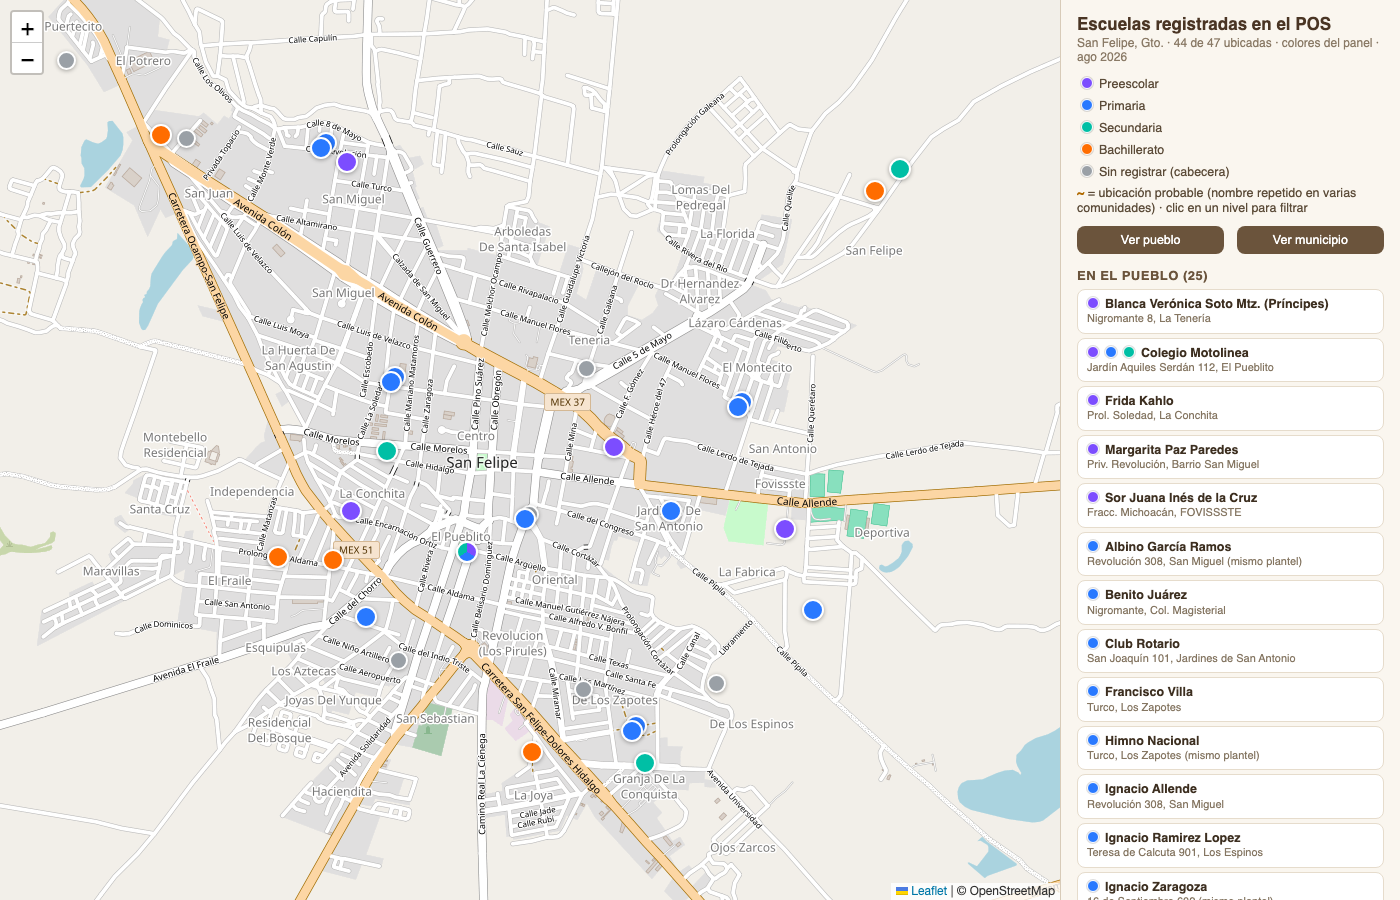
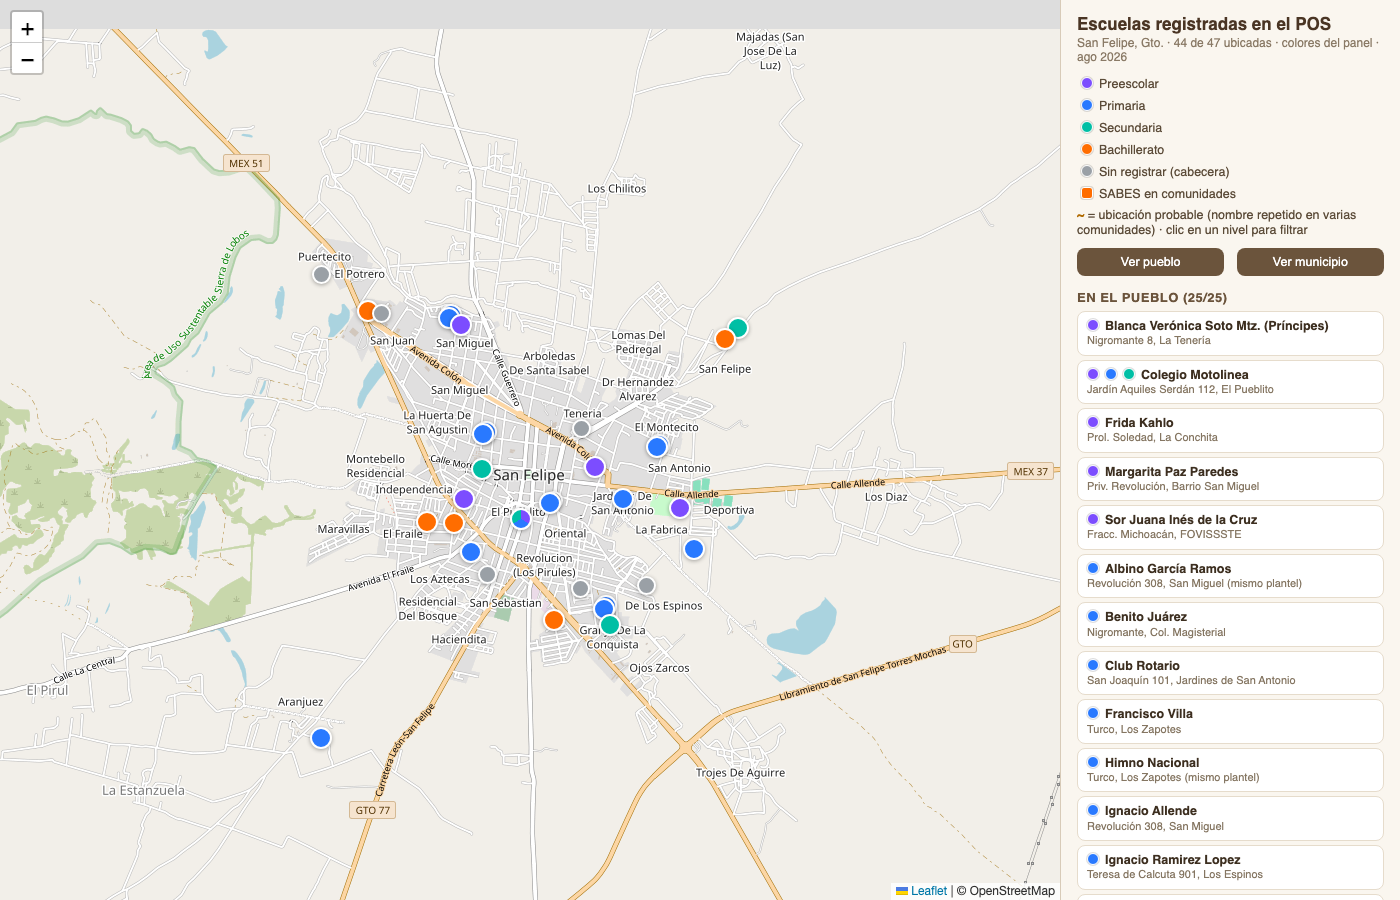
feat(mapas): planteles SABES de comunidades como grupo con filtro propio
11 SABES rurales (fichas CCT 11ETH*) como cuadritos naranjas con toggle
independiente en la leyenda, sección propia en la lista y contador en
vivo. Ver municipio los incluye en el encuadre.

diff --git a/mapas_escuelas/mapa_escuelas_san_felipe.html b/mapas_escuelas/mapa_escuelas_san_felipe.html
@@ -42,6 +42,7 @@
       <div class="fil" data-f="Sec"><span class="dot" style="background:#00bfa5"></span>Secundaria</div>
       <div class="fil" data-f="Bach"><span class="dot" style="background:#ff6d00"></span>Bachillerato</div>
       <div class="fil" data-f="Gris"><span class="dot" style="background:#9aa0a6"></span>Sin registrar (cabecera)</div>
+      <div class="fil" data-f="Sabes"><span class="dot" style="background:#ff6d00; border-radius:3px"></span>SABES en comunidades</div>
       <div style="margin-top:4px"><span class="prob">~</span> = ubicación probable (nombre repetido en varias comunidades) · clic en un nivel para filtrar</div>
     </div>
     <button class="btn" id="btnPueblo">Ver pueblo</button>
@@ -50,6 +51,8 @@
     <div id="listaPueblo"></div>
     <h2>En comunidades (<span id="nC"></span>)</h2>
     <div id="listaCom"></div>
+    <h2>SABES en comunidades (<span id="nS"></span>)</h2>
+    <div id="listaSabes"></div>
     <h2>En cabecera, sin registrar (<span id="nG"></span>)</h2>
     <div id="listaGris"></div>
     <div class="note">
@@ -119,6 +122,20 @@ const comunidades = [
   {n:"Álvaro Obregón", nv:["Pre","Pri"], a:"San Pedro de Almoloyán (primaria por confirmar)", lat:21.69089, lon:-101.23817, p:true},
   {n:"Práxedis Guerrero (primaria)", nv:["Pri"], a:"Salto del Ahogado", lat:21.39249, lon:-101.45841},
 ];
+// Planteles SABES en comunidades (mismo subsistema que tu cliente SABES)
+const sabes = [
+  {n:"SABES Jaral de Berrio", nv:["Bach"], a:"Alfonso Moreno Morán 203, Jaral de Berrios", lat:21.682824, lon:-101.01152},
+  {n:"SABES San Bartolo de Berrios", nv:["Bach"], a:"Lázaro Cárdenas, San Bartolo de Berrios", lat:21.61417, lon:-101.06361},
+  {n:"SABES Santa Rosa", nv:["Bach"], a:"Av. Colón, Santa Rosa", lat:21.55394, lon:-101.09311},
+  {n:"SABES San Pedro de Almoloyán", nv:["Bach"], a:"Calle Santa Fe, San Pedro de Almoloyán", lat:21.69889, lon:-101.24084},
+  {n:"SABES Salto del Ahogado", nv:["Bach"], a:"Salto del Ahogado", lat:21.39472, lon:-101.45889},
+  {n:"SABES San Andrés del Cubo", nv:["Bach"], a:"Obregón 100, San Andrés del Cubo", lat:21.44667, lon:-101.12527},
+  {n:"SABES La Cieneguita", nv:["Bach"], a:"Camino Buenavista–Capetillo, La Cieneguita", lat:21.345, lon:-101.06111},
+  {n:"SABES Los Barcos", nv:["Bach"], a:"San José de los Barcos", lat:21.3141, lon:-101.255},
+  {n:"SABES Laguna de Guadalupe", nv:["Bach"], a:"Cuatha 30, Laguna de Guadalupe", lat:21.80083, lon:-101.35694},
+  {n:"SABES El Tepozán", nv:["Bach"], a:"El Tepozán", lat:21.295, lon:-101.35806},
+  {n:"SABES Fábrica de Melchor", nv:["Bach"], a:"Reforma, Fábrica de Melchor", lat:21.67444, lon:-100.90219},
+];
 
 // Escuelas de la cabecera que NO están en la base del POS (gris)
 const grises = [
@@ -136,7 +153,7 @@ L.tileLayer("https://{s}.tile.openstreetmap.org/{z}/{x}/{y}.png", {
   attribution: "&copy; OpenStreetMap", maxZoom: 19
 }).addTo(map);
 
-function makeIcon(niveles, gris) {
+function makeIcon(niveles, gris, cuadrado) {
   const size = gris ? 15 : 18;
   let bg;
   if (gris) bg = "#9aa0a6";
@@ -146,30 +163,33 @@ function makeIcon(niveles, gris) {
     const segs = niveles.map((nv, i) => `${C[nv]} ${i * step}deg ${(i + 1) * step}deg`);
     bg = `conic-gradient(${segs.join(",")})`;
   }
+  const radio = cuadrado ? "border-radius:4px;" : "";
   return L.divIcon({
     className: "",
-    html: `<div class="split-marker" style="width:${size}px;height:${size}px;background:${bg}"></div>`,
+    html: `<div class="split-marker" style="width:${size}px;height:${size}px;background:${bg};${radio}"></div>`,
     iconSize: [size + 4, size + 4], iconAnchor: [(size + 4) / 2, (size + 4) / 2],
   });
 }
 const todos = [];
-function add(e, gris) {
-  const m = L.marker([e.lat, e.lon], { icon: makeIcon(e.nv, gris) }).addTo(map);
+function add(e, gris, esSabes) {
+  const m = L.marker([e.lat, e.lon], { icon: makeIcon(e.nv, gris, esSabes) }).addTo(map);
   const nivs = e.nv.map(x => NIVEL[x]).join(" + ");
   const extra = gris ? "<br><i>sin registrar en tu base</i>" : (e.p ? "<br><i>ubicación probable</i>" : "");
   m.bindPopup(`<b>${e.n}</b><br>${nivs}<br>${e.a}${extra}`);
   m.bindTooltip(e.n, { direction: "top", offset: [0, -10] });
-  e._m = m; e._gris = gris;
+  e._m = m; e._gris = gris; e._sabes = !!esSabes;
   todos.push(e);
 }
-grises.forEach(e => add(e, true));
-[...pueblo, ...comunidades].forEach(e => add(e, false));
+grises.forEach(e => add(e, true, false));
+[...pueblo, ...comunidades].forEach(e => add(e, false, false));
+sabes.forEach(e => add(e, false, true));
 
 // Filtros por nivel (clic en la leyenda)
-const activos = { Pre: true, Pri: true, Sec: true, Bach: true, Gris: true };
+const activos = { Pre: true, Pri: true, Sec: true, Bach: true, Gris: true, Sabes: true };
 function visible(e) {
-  // "Sin registrar" es una categoría propia: no depende de los niveles
+  // "Sin registrar" y "SABES comunidades" son categorías propias: no dependen de los niveles
   if (e._gris) return activos.Gris;
+  if (e._sabes) return activos.Sabes;
   return e.nv.some(nv => activos[nv]);
 }
 function aplicaFiltros() {
@@ -186,6 +206,7 @@ function actualizaContadores() {
   document.getElementById("nP").textContent = cuenta(pueblo);
   document.getElementById("nC").textContent = cuenta(comunidades);
   document.getElementById("nG").textContent = cuenta(grises);
+  document.getElementById("nS").textContent = cuenta(sabes);
 }
 document.querySelectorAll("#filtros .fil").forEach(el => {
   el.onclick = () => {
@@ -203,7 +224,7 @@ function encuadra(arrs, pad) {
   map.fitBounds(L.latLngBounds(pts).pad(pad));
 }
 document.getElementById("btnPueblo").onclick = () => encuadra([pueblo, grises], 0.12);
-document.getElementById("btnTodo").onclick = () => encuadra([pueblo, grises, comunidades], 0.06);
+document.getElementById("btnTodo").onclick = () => encuadra([pueblo, grises, comunidades, sabes], 0.06);
 map.fitBounds(L.latLngBounds([...pueblo, ...grises].map(e => [e.lat, e.lon])).pad(0.12));
 
 const ordenNv = ["Pre", "Pri", "Sec", "Bach"];
@@ -226,6 +247,7 @@ function llena(idLista, arr, idN, gris) {
 }
 llena("listaPueblo", pueblo, "nP", false);
 llena("listaCom", comunidades, "nC", false);
+llena("listaSabes", sabes, "nS", false);
 llena("listaGris", grises, "nG", true);
 actualizaContadores();
 </script>

diff --git a/mapas_escuelas/README.md b/mapas_escuelas/README.md
@@ -5,6 +5,8 @@ Mapas interactivos (Leaflet + OpenStreetMap, necesitan internet para los tiles).
 - `mapa_escuelas_san_felipe.html` — las 47 escuelas registradas en el POS, coloreadas por nivel
   (colores del panel: Preescolar `#7c4dff`, Primaria `#2979ff`, Secundaria `#00bfa5`, Bachillerato `#ff6d00`).
   En gris: escuelas de la cabecera que no están en la base. `~` = ubicación probable.
+  Grupo extra con filtro propio: los 11 planteles SABES en comunidades (cuadritos naranjas).
+  La leyenda es clickeable para filtrar por nivel/grupo.
 - `mapa_preescolares_san_felipe.html` — solo preescolares (clientes vs. no clientes).
 - Los `.png` son capturas de la vista del pueblo.
 
